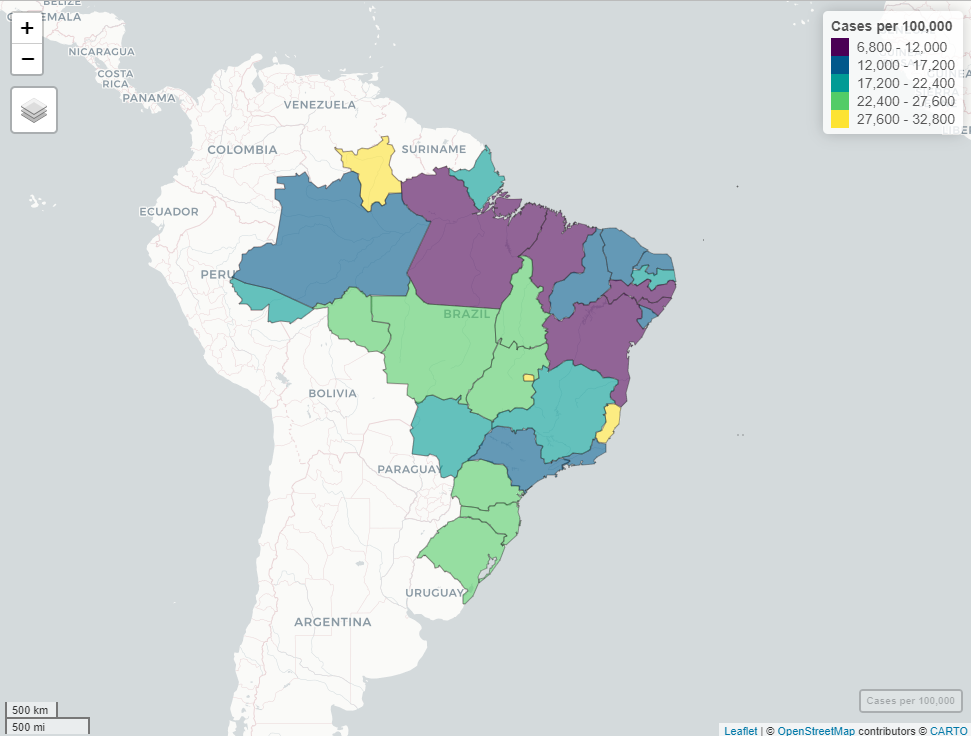
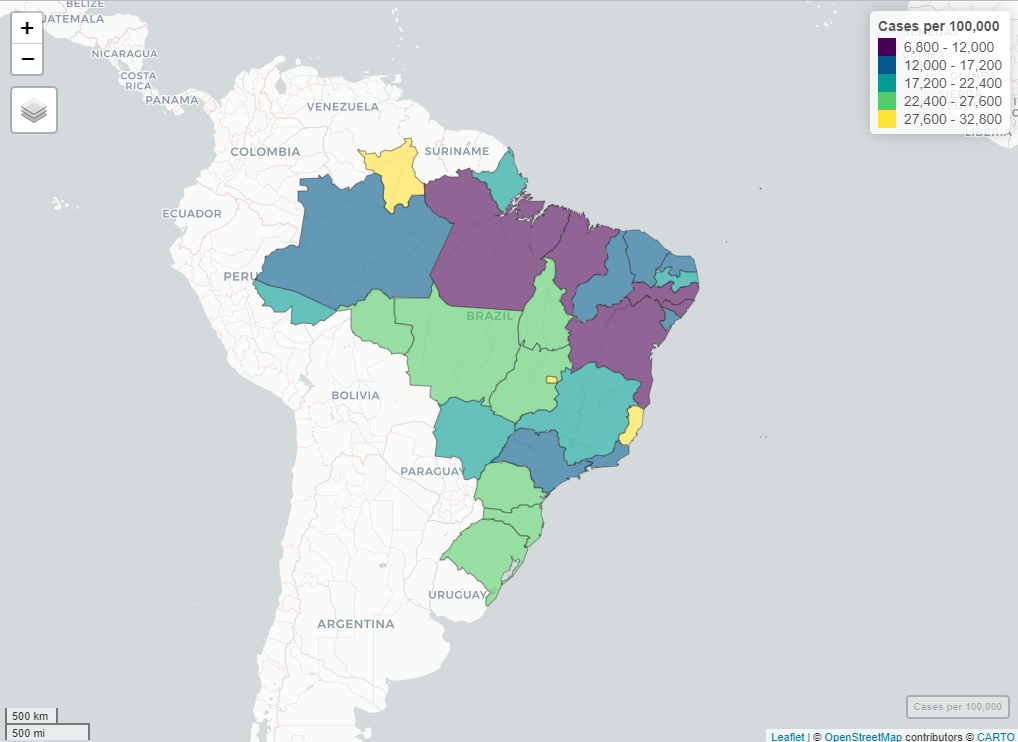
Update README file

diff --git a/README.md b/README.md
@@ -106,7 +106,7 @@ Saude (SUS)](https://www.gov.br/saude/pt-br). Data are available as of
 ## Cases accumulated per 100,000 inhabitants
 
 The graph below shows the number of cases accumulated in each Federative
-Unit of Brazil per 100,000 inhabitants (data for the day 2023-01-06).
+Unit of Brazil per 100,000 inhabitants (data for the day 2023-01-13).
 
 Data source: [Ministerio da Saude - Sistema Unico de Saude
 (SUS)](https://www.gov.br/saude/pt-br)
@@ -129,7 +129,7 @@ inhabitants for each of the 853 municipalities in the state Minas Gerais
 
 In turn, the next graph shows the number of deaths accumulated in each
 Federative Unit of Brazil per 100,000 inhabitants (data for the day
-2023-01-06).
+2023-01-13).
 
 Data source: [Ministerio da Saude - Sistema Unico de Saude
 (SUS)](https://www.gov.br/saude/pt-br)
